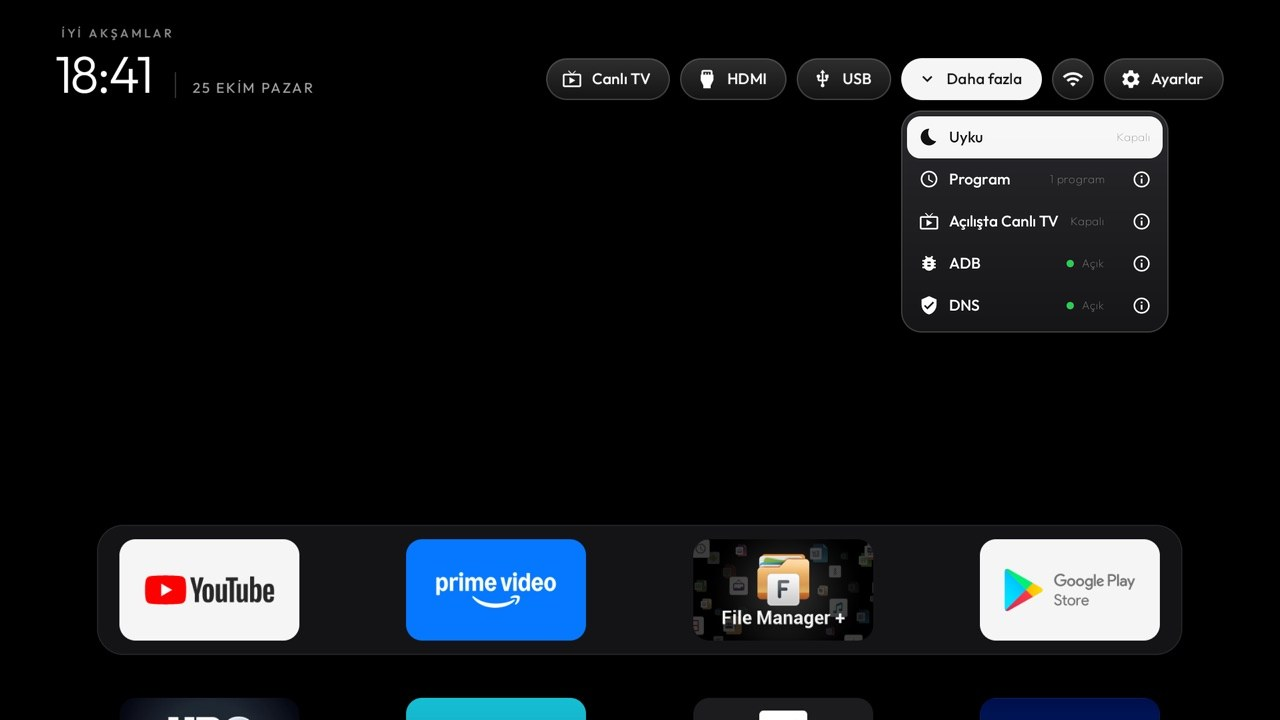
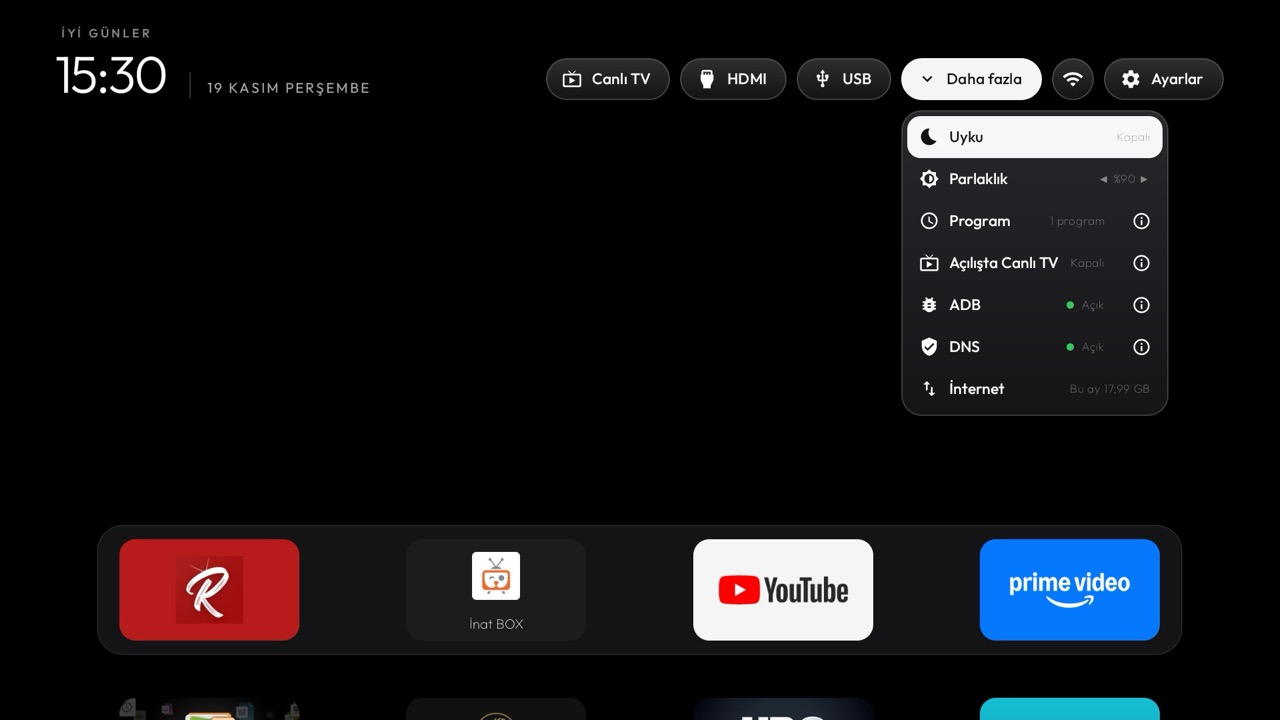
README: Internet row in the Dijitsu More menu, with its per-app lists
New screenshots of the More menu and the Today list from the Dijitsu 43DS9800.

diff --git a/examples/dijitsu-43ds9800/README.md b/examples/dijitsu-43ds9800/README.md
@@ -66,7 +66,7 @@ bildirim ve üreticinin uzaktan destek/ekran kaydı servisi.
 | **Canlı TV** | HDMI'dayken bile doğrudan DTV'ye geçer (TV'nin TIF oynatıcısı, `sourceId=0`). |
 | **HDMI** | HDMI 1 / 2 / 3 menüsü; seçilen porta doğrudan geçer (`sourceid` 5/6/7). |
 | **USB** | TV'nin kendi Medya Merkezi'ni açar (USB bellekteki video, müzik, fotoğraf). |
-| **Daha fazla ⌄** | Açılan menüde **Uyku**, **Parlaklık** (arka ışık, ◀ ▶ ile %5 adımlarla; OK ile sabah/akşam seviyesi), **Program**, **Açılışta Canlı TV**, **ADB** ve **DNS** (AdGuard reklam engelleyici DNS, açılıp kapatılabilir) bulunur. Son dördünün yanındaki **ⓘ** (sağ tuşla geçilir) ne işe yaradığını kısaca anlatır. Uyku açıkken kalan süre bu düğmede de yazar. |
+| **Daha fazla ⌄** | Açılan menüde **Uyku**, **Parlaklık** (arka ışık, ◀ ▶ ile %5 adımlarla; OK ile sabah/akşam seviyesi), **Program**, **Açılışta Canlı TV**, **ADB**, **DNS** (AdGuard reklam engelleyici DNS, açılıp kapatılabilir) ve **İnternet** (bugün, bu ay, geçen ay ve genel kullanım; her birinde uygulama dökümü) bulunur. Son dördünün yanındaki **ⓘ** (sağ tuşla geçilir) ne işe yaradığını kısaca anlatır. Uyku açıkken kalan süre bu düğmede de yazar. |
 | ↳ Uyku | TV'nin kendi uyku zamanlayıcısı: 15–150 dk. |
 | ↳ Program | Seçilen günlerde ve saatte istenen kanalı açar; isteğe bağlı olarak süre sonunda TV'yi kapatır. **TV kapalıyken de çalışır.** |
 | ↳ Açılışta Canlı TV | Açık (yeşil nokta): TV açılınca DTV gelir. Kapalı: ana ekran gelir ve odak **Canlı TV** düğmesinde olur; sonradan ana ekrana dönünce odak yine dock'tadır. Hem yeniden başlatmada hem bekleme modundan açılışta geçerlidir; o anda bir program varsa programın kanalı öncelikli. |
